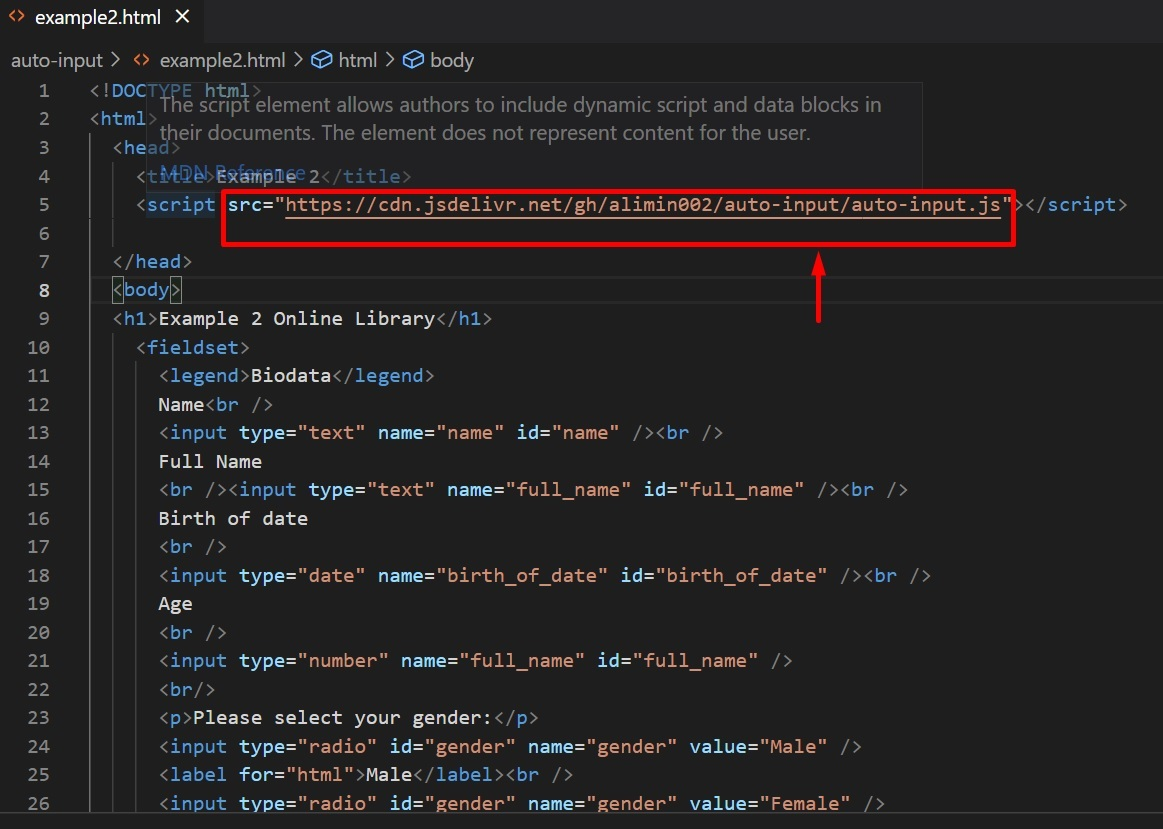
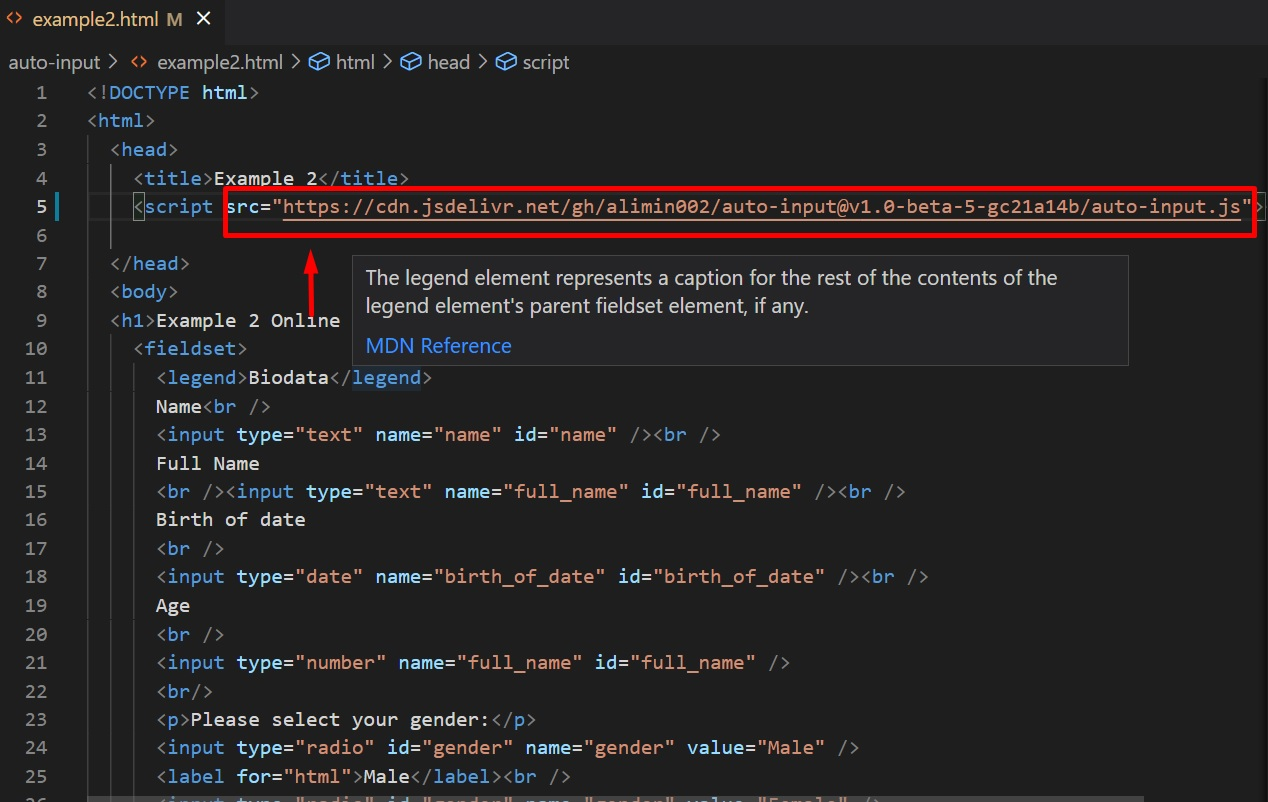
perbaikan gambar dokumentasi

diff --git a/auto-input.js b/auto-input.js
@@ -1,5 +1,5 @@
 /*!
- * auto-input version v1.0.0-beta(https://github.com/alimin002/auto-input)
+ * auto-input version v1.0-beta-5-gc21a14b(https://github.com/alimin002/auto-input)
  * author       :Alimin
  * email        :alimin1313@gmail.com
  * documentation:https://github.com/alimin002/auto-input/blob/master/README.md

diff --git a/example2.html b/example2.html
@@ -2,7 +2,7 @@
 <html>
   <head>
     <title>Example 2</title>
-    <script src="https://cdn.jsdelivr.net/gh/alimin002/auto-input/auto-input.js"></script>
+    <script src="https://cdn.jsdelivr.net/gh/alimin002/auto-input@v1.0-beta-5-gc21a14b/auto-input.js"></script>
 	
   </head>
   <body>
